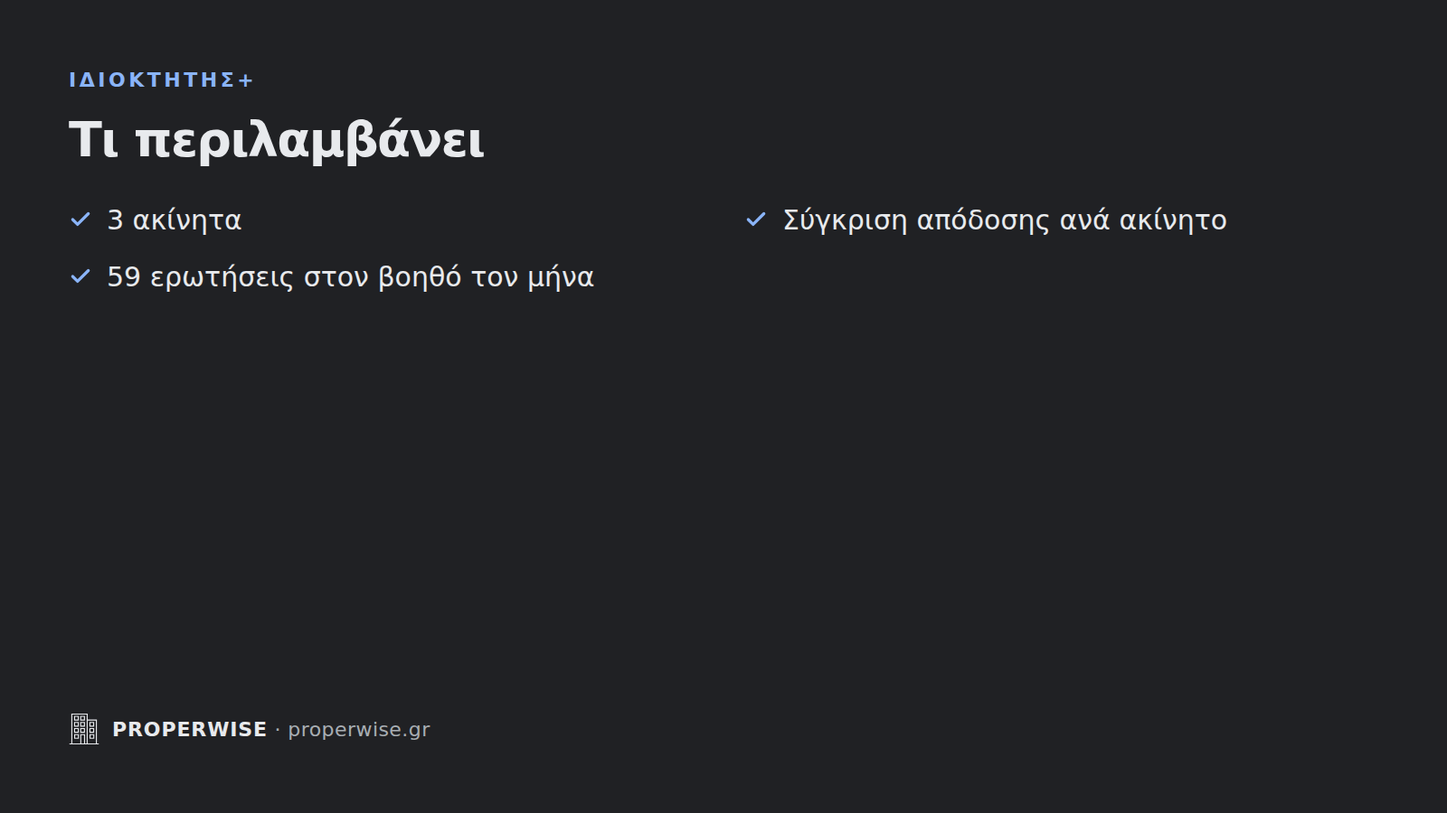
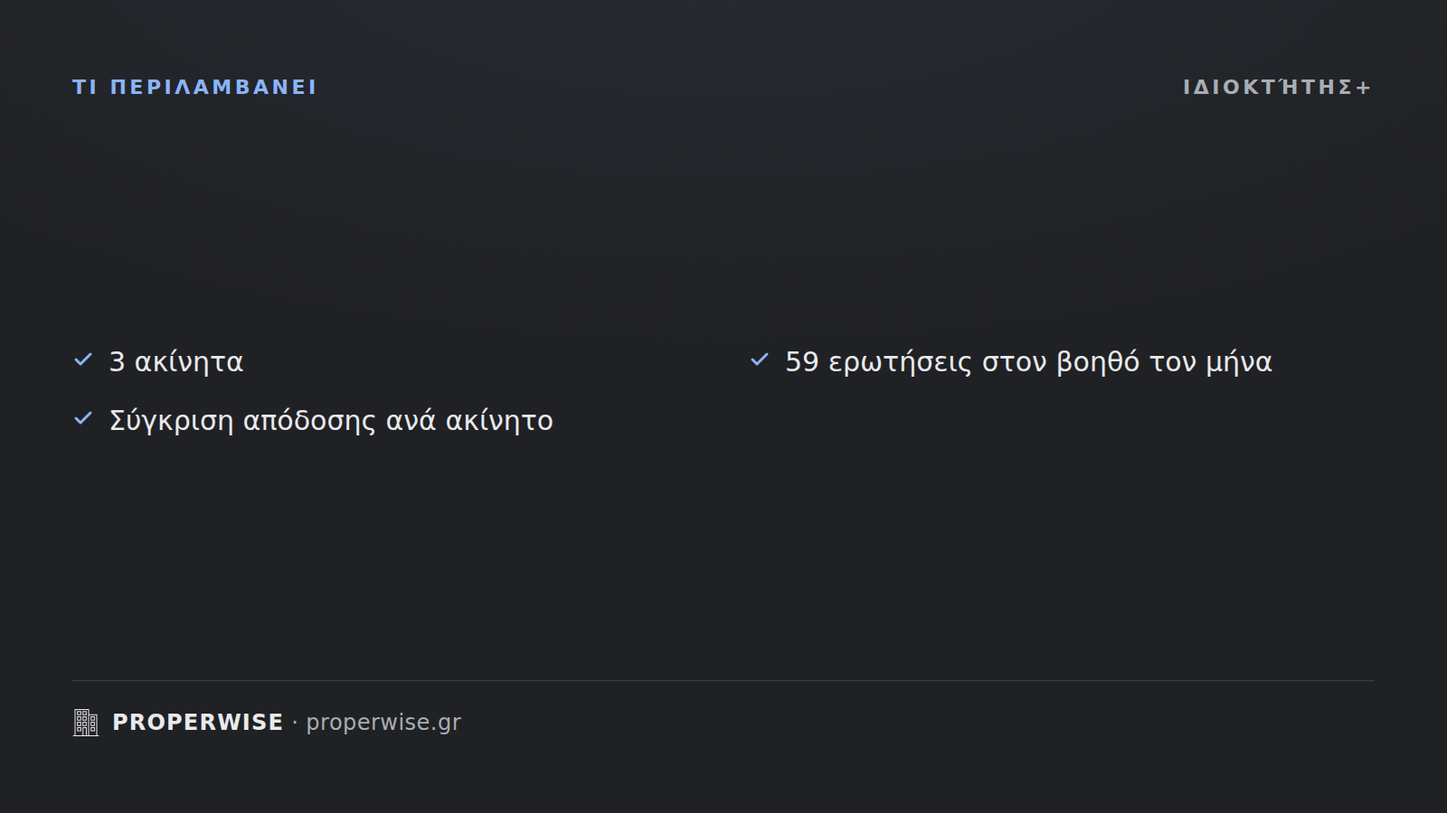
Οι δώδεκα εικόνες του καταστήματος στοιχίζονται στο εικονοστοιχείο
Η πρώτη εκδοχή στοίβαζε το περιεχόμενο με «margin-top:auto», δηλαδή το
κόλλαγε στο κάτω μέρος. Οσο άλλαζε το πλήθος των χαρακτηριστικών ανά πακέτο
άλλαζε και το κενό στη μέση: δώδεκα εικόνες που κάθονται δίπλα δίπλα στο
κατάστημα και καμία δεν ευθυγραμμιζόταν με την άλλη. Και οι δύο στήλες της
λίστας γέμιζαν κατά γραμμή, οπότε η αριστερή έβγαινε τέσσερα και η δεξιά
τρία.

Τώρα ένα πλαίσιο τεσσάρων ζωνών: κεφαλίδα σταθερού ύψους, περιεχόμενο που
τεντώνει, γραμμή, υπογραφή. Ολες οι εικόνες περνούν από την ίδια συνάρτηση,
οπότε καμία δεν μπορεί να παρακάμψει το πλαίσιο. Το τετράγωνο μοιράζει το
ύψος του με μια λεπτή γραμμή στη μέση, οι στήλες γεμίζουν κατά στήλη.

Η ομοιομορφία ΜΕΤΡΙΕΤΑΙ. Κάθε στοιχείο που οφείλει να πέφτει στο ίδιο ύψος
φέρει «data-k» και διαβάζεται από τον περιηγητή: 14 θέσεις ίδιες στα
τέσσερα τετράγωνα, 10 στις κάρτες τιμής, το πλαίσιο σε όλες. Η λίστα
εξαιρείται από τη σύγκριση περιεχομένου, γιατί το πλήθος γραμμών της
διαφέρει εξ ορισμού: εκεί ελέγχεται ότι οι δύο στήλες ξεκινούν στο ίδιο
ύψος μέσα στην ίδια εικόνα.

Ο έλεγχος δοκιμάστηκε με δύο μεταλλάξεις. Ενα μονό περιθώριο 62 αντί για 40
σε ΕΝΑ πακέτο: κόκκινο σε δύο θέσεις. Οι δύο στήλες ξεστοιχισμένες κατά 18:
κόκκινο σε τρεις εικόνες. Δύο ενδιάμεσες εκδοχές του ελέγχου πέρασαν
πράσινες πάνω από τα ίδια σφάλματα, γιατί μετρούσαν τα όρια του κουτιού και
όχι το περιεχόμενό του. Ελεγχος που δεν κοκκινίζει με το σφάλμα μπροστά του
δεν είναι έλεγχος.

diff --git a/scripts/brand/store.ts b/scripts/brand/store.ts
@@ -57,24 +57,77 @@ const esc = (s: string) => s.replace(/&/g, '&amp;').replace(/</g, '&lt;').replac
 // ΤΟ «lang» ΔΕΝ ΕΙΝΑΙ ΤΥΠΙΚΟΤΗΤΑ ΕΔΩ, ΕΙΝΑΙ ΟΡΘΟΓΡΑΦΙΑ. Χωρίς αυτό ο Chromium
 // δεν εφαρμόζει τους ελληνικούς κανόνες κεφαλαιοποίησης και το
 // «Συνδρομή» βγαίνει «ΣΥΝΔΡΟΜΉ», με τόνο πάνω σε κεφαλαίο.
-const shell = (w: number, h: number, pad: number, body: string) => `<!doctype html><html lang="el"><meta charset="utf-8"><style>
+// ═══════════════════════════════════════════════════════════════════════════
+// ΤΟ ΠΛΑΙΣΙΟ ΕΙΝΑΙ ΕΝΑ, ΚΑΙ ΚΑΝΕΝΑ ΚΑΡΤΕΛΑΚΙ ΔΕΝ ΤΟ ΠΑΡΑΚΑΜΠΤΕΙ
+// ─────────────────────────────────────────────────────────────────────────
+// ΤΙ ΕΦΤΑΙΓΕ ΣΤΗΝ ΠΡΩΤΗ ΕΚΔΟΧΗ. Κάθε εικόνα στοίβαζε το περιεχόμενό της με
+// «margin-top:auto», δηλαδή το κόλλαγε στο κάτω μέρος. Οσο άλλαζε το πλήθος
+// των χαρακτηριστικών ανά πακέτο —πέντε στον Ιδιοκτήτη, δύο στον Ιδιοκτήτη+,
+// έξι στον Επαγγελματία— άλλαζε και το κενό στη μέση. Δώδεκα εικόνες που
+// κάθονται δίπλα δίπλα στο κατάστημα και καμία δεν ευθυγραμμιζόταν με την
+// άλλη. Και οι δύο στήλες της λίστας γέμιζαν κατά ΓΡΑΜΜΗ, οπότε η αριστερή
+// έβγαινε τέσσερα και η δεξιά τρία.
+//
+// Ο ΚΑΝΟΝΑΣ. Τρεις ζώνες με σταθερό ύψος και μία που τεντώνει:
+//
+//     ΚΕΦΑΛΙΔΑ   σταθερό ύψος 34   κατηγορία αριστερά, πακέτο δεξιά
+//     ΠΕΡΙΕΧΟΜΕΝΟ  τεντώνει        πάντα οπτικά κεντραρισμένο
+//     ΓΡΑΜΜΗ       1               στο ίδιο ύψος σε κάθε εικόνα
+//     ΥΠΟΓΡΑΦΗ     σταθερό ύψος 40 σήμα και τομέας
+//
+// Ετσι η κεφαλίδα, η γραμμή και η υπογραφή πέφτουν στο ΙΔΙΟ εικονοστοιχείο σε
+// κάθε εικόνα του ίδιου μεγέθους, ό,τι κι αν γράφει από πάνω τους. Το
+// περιεχόμενο κεντράρεται, οπότε δύο γραμμές ή οκτώ δίνουν το ίδιο βάρος.
+// Μετριέται στο τέλος: αν κάποια ζώνη μετακινηθεί, το βήμα κοκκινίζει.
+// ═══════════════════════════════════════════════════════════════════════════
+
+/** Το περιθώριο, το ίδιο και στα δύο μεγέθη: η ταυτότητα δεν αλλάζει με τον καμβά. */
+const PAD = 80;
+const HEAD_H = 34;
+const SIG_H = 40;
+
+/** Η κλίμακα τύπου. Πέντε μεγέθη, κανένα ενδιάμεσο αυθαίρετο. */
+const TS = { eyebrow: 22, micro: 24, body: 30, sub: 36, h2: 56, kpi: 92, hero: 104 };
+
+const shell = (w: number, h: number, body: string) => `<!doctype html><html lang="el"><meta charset="utf-8"><style>
   ${FACES}
   *{box-sizing:border-box;margin:0}
-  body{width:${w}px;height:${h}px;background:${GROUND};color:${INK};padding:${pad}px;
+  /* ΤΟ ΒΑΘΟΣ ΕΙΝΑΙ ΤΟ ΙΔΙΟ ΜΕ ΤΗΣ ΕΦΑΡΜΟΓΗΣ: μια πολύ ήπια ακτινική κλίση από
+     πάνω δίνει στην επιφάνεια κατεύθυνση φωτός, όπως στις κάρτες του πίνακα
+     ελέγχου. Ιδια σε κάθε εικόνα, οπότε δεν χαλά την ομοιομορφία. */
+  body{width:${w}px;height:${h}px;color:${INK};padding:${PAD}px;
+       background:radial-gradient(120% 90% at 50% -12%, rgba(138,180,248,0.07) 0%, rgba(138,180,248,0) 62%), ${GROUND};
        font-family:Inter,system-ui,sans-serif;-webkit-font-smoothing:antialiased;
        display:flex;flex-direction:column}
-  .sig{margin-top:auto;display:flex;align-items:center;gap:14px;color:${MUTED};font-size:22px;letter-spacing:0.02em}
-  .sig b{color:${INK};font-weight:800;letter-spacing:0.04em}
-  .eyebrow{color:${ACCENT};font-size:22px;font-weight:800;letter-spacing:0.16em;text-transform:uppercase}
-  .num{font-variant-numeric:tabular-nums}
-  .rule{height:1px;background:${RULE}}
+  .head{height:${HEAD_H}px;display:flex;align-items:center;justify-content:space-between;flex:0 0 auto}
+  .eyebrow{color:${ACCENT};font-size:${TS.eyebrow}px;font-weight:800;letter-spacing:0.16em;line-height:1}
+  .tag{color:${MUTED};font-size:${TS.eyebrow}px;font-weight:800;letter-spacing:0.16em;line-height:1}
+  .zone{flex:1 1 auto;display:flex;flex-direction:column;justify-content:center;min-height:0}
+  .zone.spread{justify-content:space-between;padding:34px 0}
+  .rule{height:1px;background:${RULE};flex:0 0 auto}
+  .sig{height:${SIG_H}px;display:flex;align-items:center;gap:14px;color:${MUTED};
+       font-size:${TS.micro}px;letter-spacing:0.02em;flex:0 0 auto}
+  .sig b{color:${INK};font-weight:800;letter-spacing:0.05em}
+  .num{font-variant-numeric:tabular-nums;letter-spacing:-0.035em;font-weight:800}
 </style>${body}`;
 
-const signature = (px = 34) =>
-  `<div class="sig">${mark(px, INK)}<span><b>PROPERWISE</b> · properwise.gr</span></div>`;
+/**
+ * Η μόνη πόρτα προς τον καμβά. Οποιος γράψει αύριο τέταρτη μορφή, θα πάρει
+ * αναγκαστικά την ίδια κεφαλίδα, την ίδια γραμμή και την ίδια υπογραφή.
+ */
+const card = (w: number, h: number, left: string, right: string, zone: string, spread = false) =>
+  shell(w, h, `
+    <div class="head"><span class="eyebrow">${left}</span><span class="tag">${right}</span></div>
+    <div class="zone${spread ? ' spread' : ''}">${zone}</div>
+    <div class="rule foot" style="margin-bottom:26px"></div>
+    <div class="sig">${mark(30, INK)}<span><b>PROPERWISE</b> · properwise.gr</span></div>`);
 
 /** Η τιμή γράφεται μία φορά, από τη μία πηγή, με ελληνικό κόμμα. */
 const price = (n: number) => fe(n);
+
+/** Το τσεκάκι, ίδιο σε κάθε γραμμή κάθε λίστας. */
+const tick = `<svg width="24" height="24" viewBox="0 0 24 24" fill="none" stroke="${ACCENT}" stroke-width="3"
+  stroke-linecap="round" stroke-linejoin="round" style="flex:0 0 auto;margin-top:5px"><path d="M20 6 9 17l-5-5"/></svg>`;
 
 type Shot = { file: string; w: number; h: number; html: string };
 const shots: Shot[] = [];
@@ -87,64 +140,65 @@ for (const id of PLAN_ORDER.filter(p => p !== 'free') as PlanId[]) {
   // Πόσους μήνες χαρίζει η ετήσια: δώδεκα μείον όσους πληρώνεις. Ιδιος
   // υπολογισμός με την κάρτα της αρχικής σελίδας, όχι δεύτερος αριθμός.
   const freeMonths = 12 - Math.round(p.priceAnnual / p.priceMonthly);
+  const NAME = p.name.toUpperCase();
 
-  // ── 1. ΤΙ ΕΙΝΑΙ. Τετράγωνη, ένα σημείο έντασης: το όνομα. ────────────────
+  // ── 1. ΤΙ ΕΙΝΑΙ. Ενα κεντραρισμένο μπλοκ, ίδιο σε κάθε πακέτο. ───────────
   shots.push({
     file: `${id}-1-tetragono.png`, w: 1200, h: 1200,
-    html: shell(1200, 1200, 84, `
-      <div class="eyebrow">Συνδρομή</div>
-      <div style="margin-top:auto">
-        <div style="font-size:112px;font-weight:800;letter-spacing:-0.035em;line-height:1.02">${esc(p.name)}</div>
-        <div style="margin-top:18px;font-size:38px;color:${MUTED};line-height:1.35">${esc(p.tagline)}</div>
-        <div class="rule" style="margin:44px 0 34px"></div>
-        <div style="display:flex;align-items:baseline;gap:16px">
-          <span class="num" style="font-size:84px;font-weight:800;letter-spacing:-0.03em">${price(p.priceMonthly)}</span>
-          <span style="font-size:34px;color:${MUTED}">τον μήνα</span>
-        </div>
-        <div style="margin-top:14px;font-size:30px;color:${ACCENT};font-weight:700">${TRIAL_DAYS} ημέρες δωρεάν δοκιμή</div>
+    html: card(1200, 1200, 'ΣΥΝΔΡΟΜΗ', cap.toUpperCase(), `
+      <div>
+        <div data-k="bar" style="width:120px;height:4px;background:${ACCENT};margin-bottom:40px"></div>
+        <div data-k="onoma" style="font-size:${TS.hero}px;font-weight:800;letter-spacing:-0.035em;line-height:1.02">${esc(p.name)}</div>
+        <div data-k="ypotitlos" style="margin-top:20px;font-size:${TS.sub}px;color:${MUTED};line-height:1.35">${esc(p.tagline)}</div>
       </div>
-      ${signature(40)}`),
+      <div class="rule"></div>
+      <div>
+        <div data-k="timi" style="display:flex;align-items:baseline;gap:16px">
+          <span class="num" style="font-size:${TS.kpi}px">${price(p.priceMonthly)}</span>
+          <span style="font-size:${TS.sub}px;color:${MUTED}">τον μήνα</span>
+        </div>
+        <div data-k="dokimi" style="margin-top:18px;font-size:${TS.body}px;color:${ACCENT};font-weight:700">${TRIAL_DAYS} ημέρες δωρεάν δοκιμή</div>
+      </div>`, true),
   });
 
-  // ── 2. ΤΙ ΠΕΡΙΛΑΜΒΑΝΕΙ. Πλατιά, η λίστα σε δύο στήλες αν χρειαστεί. ──────
+  // ── 2. ΤΙ ΠΕΡΙΛΑΜΒΑΝΕΙ. Δύο στήλες που γεμίζουν ΚΑΤΑ ΣΤΗΛΗ, ζυγισμένες. ──
   const items = [cap, ...p.features.filter(f => !/^Έως \d|^Ακίνητα χωρίς όριο/.test(f)), `${ai} ερωτήσεις στον βοηθό τον μήνα`];
+  const half = Math.ceil(items.length / 2);
+  // ΤΟ ΣΗΜΑΔΙ ΜΠΑΙΝΕΙ ΣΤΗΝ ΠΡΩΤΗ ΓΡΑΜΜΗ, ΟΧΙ ΣΤΗ ΣΤΗΛΗ. Δοκιμάστηκε με
+  // «padding-top» στη στήλη και ο έλεγχος πέρασε πράσινος: το γέμισμα είναι
+  // ΜΕΣΑ στο κουτί, οπότε το πάνω όριο της στήλης δεν κουνιέται ενώ το
+  // περιεχόμενο κατεβαίνει. Αυτό που πρέπει να ευθυγραμμίζεται είναι το πρώτο
+  // τσεκάκι της κάθε στήλης, άρα αυτό μετριέται.
+  const col = (list: string[], k: string) => `<div style="display:flex;flex-direction:column;gap:24px">`
+    + list.map((t, i) => `<div${i === 0 ? ` data-k="${k}"` : ''} style="display:flex;align-items:flex-start;gap:16px;font-size:${TS.body}px;line-height:1.35">`
+      + `${tick}<span>${esc(t)}</span></div>`).join('') + '</div>';
   shots.push({
     file: `${id}-2-perilamvanei.png`, w: 1600, h: 900,
-    html: shell(1600, 900, 76, `
-      <div class="eyebrow">${esc(p.name)}</div>
-      <div style="margin-top:22px;font-size:54px;font-weight:800;letter-spacing:-0.03em">Τι περιλαμβάνει</div>
-      <div style="margin-top:38px;display:grid;grid-template-columns:repeat(2,1fr);gap:22px 46px">
-        ${items.map(t => `<div style="display:flex;align-items:flex-start;gap:16px;font-size:30px;line-height:1.35">
-             <svg width="26" height="26" viewBox="0 0 24 24" fill="none" stroke="${ACCENT}" stroke-width="3"
-                  stroke-linecap="round" stroke-linejoin="round" style="flex:0 0 auto;margin-top:6px"><path d="M20 6 9 17l-5-5"/></svg>
-             <span>${esc(t)}</span></div>`).join('')}
-      </div>
-      ${signature(34)}`),
+    html: card(1600, 900, 'ΤΙ ΠΕΡΙΛΑΜΒΑΝΕΙ', NAME, `
+      <div style="display:grid;grid-template-columns:1fr 1fr;gap:0 56px;align-items:start">
+        ${col(items.slice(0, half), 'stili-a')}${col(items.slice(half), 'stili-b')}
+      </div>`),
   });
 
-  // ── 3. ΤΙ ΚΟΣΤΙΖΕΙ. Μήνας και χρόνος δίπλα δίπλα, χωρίς αριθμητική. ──────
+  // ── 3. ΤΙ ΚΟΣΤΙΖΕΙ. Δύο ΙΣΑ μισά, με τη γραμμή ακριβώς στη μέση. ─────────
+  const money = (label: string, value: number, k: string, note?: string) => `
+    <div data-k="${k}" style="display:flex;flex-direction:column;align-items:flex-start">
+      <div style="font-size:${TS.micro}px;color:${MUTED};letter-spacing:0.14em;font-weight:700">${label}</div>
+      <div class="num" style="margin-top:14px;font-size:${TS.kpi}px;line-height:1">${price(value)}</div>
+      <div style="margin-top:14px;font-size:${TS.body}px;color:${note ? ACCENT : 'transparent'};font-weight:700">${note || 'κενό'}</div>
+    </div>`;
   shots.push({
     file: `${id}-3-timi.png`, w: 1600, h: 900,
-    html: shell(1600, 900, 76, `
-      <div class="eyebrow">${esc(p.name)}</div>
-      <div style="margin-top:auto;display:flex;gap:70px;align-items:flex-end">
-        <div>
-          <div style="font-size:26px;color:${MUTED};letter-spacing:0.06em;text-transform:uppercase">Μηνιαία</div>
-          <div class="num" style="margin-top:12px;font-size:96px;font-weight:800;letter-spacing:-0.035em">${price(p.priceMonthly)}</div>
-        </div>
-        <div style="width:1px;align-self:stretch;background:${RULE}"></div>
-        <div>
-          <div style="font-size:26px;color:${MUTED};letter-spacing:0.06em;text-transform:uppercase">Ετήσια</div>
-          <div class="num" style="margin-top:12px;font-size:96px;font-weight:800;letter-spacing:-0.035em">${price(p.priceAnnual)}</div>
-          <div style="margin-top:10px;font-size:28px;color:${ACCENT};font-weight:700">${freeMonths} ${freeMonths === 1 ? 'μήνας' : 'μήνες'} δωρεάν</div>
-        </div>
+    html: card(1600, 900, 'ΤΙΜΗ', NAME, `
+      <div style="display:grid;grid-template-columns:1fr 1px 1fr;align-items:center;gap:0 64px">
+        ${money('ΜΗΝΙΑΙΑ', p.priceMonthly, 'miniaia')}
+        <div style="width:1px;height:200px;background:${RULE}"></div>
+        ${money('ΕΤΗΣΙΑ', p.priceAnnual, 'etisia', `${freeMonths} ${freeMonths === 1 ? 'μήνας' : 'μήνες'} δωρεάν`)}
       </div>
-      <div class="rule" style="margin:40px 0 26px"></div>
-      <div style="font-size:26px;color:${MUTED};line-height:1.5">
+      <div data-k="psila" style="margin-top:52px;font-size:${TS.micro}px;color:${MUTED};line-height:1.6;max-width:1100px">
         ${TRIAL_DAYS} ημέρες δωρεάν δοκιμή. Χωρίς δέσμευση, χωρίς κρυφές χρεώσεις.
         Οι τιμές αφορούν καταναλωτές στην Ελλάδα και περιλαμβάνουν ΦΠΑ.
-      </div>
-      ${signature(34)}`),
+      </div>`),
   });
 }
 
@@ -203,6 +257,40 @@ function copyMarkdown(): string {
 }
 
 // Το tsx μεταγλωττίζει σε cjs, όπου το await στο ανώτατο επίπεδο δεν υπάρχει.
+// ═══════════════════════════════════════════════════════════════════════════
+// Η ΟΜΟΙΟΜΟΡΦΙΑ ΜΕΤΡΙΕΤΑΙ, ΔΕΝ ΔΗΛΩΝΕΤΑΙ
+// ─────────────────────────────────────────────────────────────────────────
+// «Ιδιο πλαίσιο παντού» είναι ισχυρισμός. Ενα μονό `margin` σε μια μορφή αρκεί
+// για να τον ακυρώσει και κανείς δεν θα το δει στη μεμονωμένη εικόνα: φαίνεται
+// μόνο όταν οι δώδεκα μπουν δίπλα δίπλα στο κατάστημα, δηλαδή μπροστά στον
+// πελάτη. Εδώ οι θέσεις των τεσσάρων ζωνών διαβάζονται από τον περιηγητή, ανά
+// μέγεθος καμβά, και πρέπει να ταυτίζονται στο εικονοστοιχείο.
+// ═══════════════════════════════════════════════════════════════════════════
+type Frame = { head: number; ruleY: number; sig: number; left: number } & Record<string, number>;
+const frames = new Map<string, { file: string; f: Frame }[]>();
+
+// ΤΙ ΣΥΓΚΡΙΝΕΤΑΙ ΜΕ ΤΙ, ΚΑΙ ΓΙΑΤΙ ΟΧΙ ΤΑ ΠΑΝΤΑ ΜΕ ΟΛΑ.
+// Οι τρεις μορφές έχουν διαφορετική σύνθεση: το τετράγωνο δεν οφείλει να
+// στοιχίζεται με την πλατιά. Η σύγκριση γίνεται ΑΝΑ ΜΟΡΦΗ, ανάμεσα στα
+// τέσσερα πακέτα: εκεί το περιεχόμενο είναι ίδιου είδους και κάθε απόκλιση
+// είναι σφάλμα.
+//
+// ΚΑΙ ΔΕΝ ΑΡΚΕΙ ΤΟ ΠΛΑΙΣΙΟ. Πρώτη εκδοχή μετρούσε μόνο κεφαλίδα, γραμμή,
+// υπογραφή και τα όρια της ζώνης. Δοκιμάστηκε με ένα μονό περιθώριο 62 αντί
+// για 40 σε ΕΝΑ πακέτο και πέρασε πράσινη: η ζώνη έχει σταθερό ύψος, οπότε τα
+// όριά της δεν κουνιούνται όταν μετακινηθεί κάτι ΜΕΣΑ της. Ελεγχος που δεν
+// κοκκινίζει με το σφάλμα μπροστά του δεν είναι έλεγχος.
+//
+// Τώρα κάθε στοιχείο που οφείλει να πέφτει στο ίδιο ύψος φέρει «data-k» και
+// μετριέται ονομαστικά.
+//
+// ΜΙΑ ΕΞΑΙΡΕΣΗ, ΚΑΙ ΕΙΝΑΙ ΣΩΣΤΗ. Η λίστα έχει άλλο πλήθος γραμμών ανά πακέτο
+// (τέσσερις στον Ιδιοκτήτη+, οκτώ στον Επαγγελματία) και κεντράρεται, οπότε το
+// ύψος εκκίνησής της ΟΦΕΙΛΕΙ να διαφέρει. Εκεί συγκρίνεται μόνο το πλαίσιο
+// και ελέγχεται χωριστά αυτό που πρέπει να ισχύει μέσα στην ΙΔΙΑ εικόνα: οι
+// δύο στήλες ξεκινούν στο ίδιο ύψος.
+const FRAME_ONLY = /^2-perilamvanei\.png$/;
+
 async function main(): Promise<void> {
   const browser = await chromium.launch({ executablePath: CHROME, args: ['--no-sandbox'] });
   for (const s of shots) {
@@ -210,12 +298,62 @@ async function main(): Promise<void> {
     const pg = await ctx.newPage();
     await pg.setContent(s.html, { waitUntil: 'load' });
     await pg.evaluate(() => document.fonts.ready);
+    // ΧΩΡΙΣ ΕΣΩΤΕΡΙΚΗ ΣΥΝΑΡΤΗΣΗ ΜΕΣΑ ΣΤΟ evaluate. Το esbuild κρατά τα ονόματα
+    // με μια βοηθητική «__name», που δεν υπάρχει στον περιηγητή: το αποτέλεσμα
+    // είναι «ReferenceError: __name is not defined» τη στιγμή της μέτρησης.
+    const f: Frame = await pg.evaluate(`(function () {
+      var q = document.querySelector.bind(document);
+      var out = {
+        head: Math.round(q('.head').getBoundingClientRect().top),
+        ruleY: Math.round(q('.rule.foot').getBoundingClientRect().top),
+        sig: Math.round(q('.sig').getBoundingClientRect().top),
+        left: Math.round(q('.eyebrow').getBoundingClientRect().left)
+      };
+      var marked = document.querySelectorAll('[data-k]');
+      for (var i = 0; i < marked.length; i++) {
+        var b = marked[i].getBoundingClientRect();
+        out['πάνω:' + marked[i].getAttribute('data-k')] = Math.round(b.top);
+        out['αριστερά:' + marked[i].getAttribute('data-k')] = Math.round(b.left);
+      }
+      return out;
+    })()`);
+    const key = s.file.replace(/^[a-z]+-/, '');
+    if (!frames.has(key)) frames.set(key, []);
+    frames.get(key)!.push({ file: s.file, f });
     await pg.screenshot({ path: join(OUT, s.file) });
     await ctx.close();
-    console.log(`  ✓ ${s.file}  ${s.w}×${s.h}`);
+    console.log(`  ✓ ${s.file}  ${key}`);
   }
   await browser.close();
   writeFileSync(join(OUT, 'README.md'), copyMarkdown());
+
+  let drift = 0;
+  for (const [key, rows] of frames) {
+    const base = rows[0];
+    const keys = FRAME_ONLY.test(key)
+      ? ['head', 'ruleY', 'sig', 'left']
+      : Object.keys(base.f);
+    for (const row of rows.slice(1)) {
+      for (const k of keys) {
+        if (row.f[k] !== base.f[k]) {
+          console.error(`✗ ${row.file}: ${k} στο ${row.f[k]} ενώ το ${base.file} στο ${base.f[k]}`);
+          drift++;
+        }
+      }
+    }
+    console.log(`  ${key}: ${keys.length} θέσεις ίδιες σε ${rows.length} πακέτα `
+      + `(κεφαλίδα ${base.f.head}, γραμμή ${base.f.ruleY}, υπογραφή ${base.f.sig})`);
+  }
+  // Οι δύο στήλες της λίστας, μέσα στην ίδια εικόνα.
+  for (const rows of frames.values())
+    for (const row of rows) {
+      const a = row.f['πάνω:stili-a'], b = row.f['πάνω:stili-b'];
+      if (a !== undefined && a !== b) {
+        console.error(`✗ ${row.file}: οι δύο στήλες ξεκινούν σε ${a} και ${b}`);
+        drift++;
+      }
+    }
+  if (drift) { console.error(`\n✗ ${drift} αποκλίσεις πλαισίου.`); process.exit(1); }
   console.log(`✓ ${shots.length} εικόνες και τα λεκτικά στο docs/marketing/store/`);
 }
 
